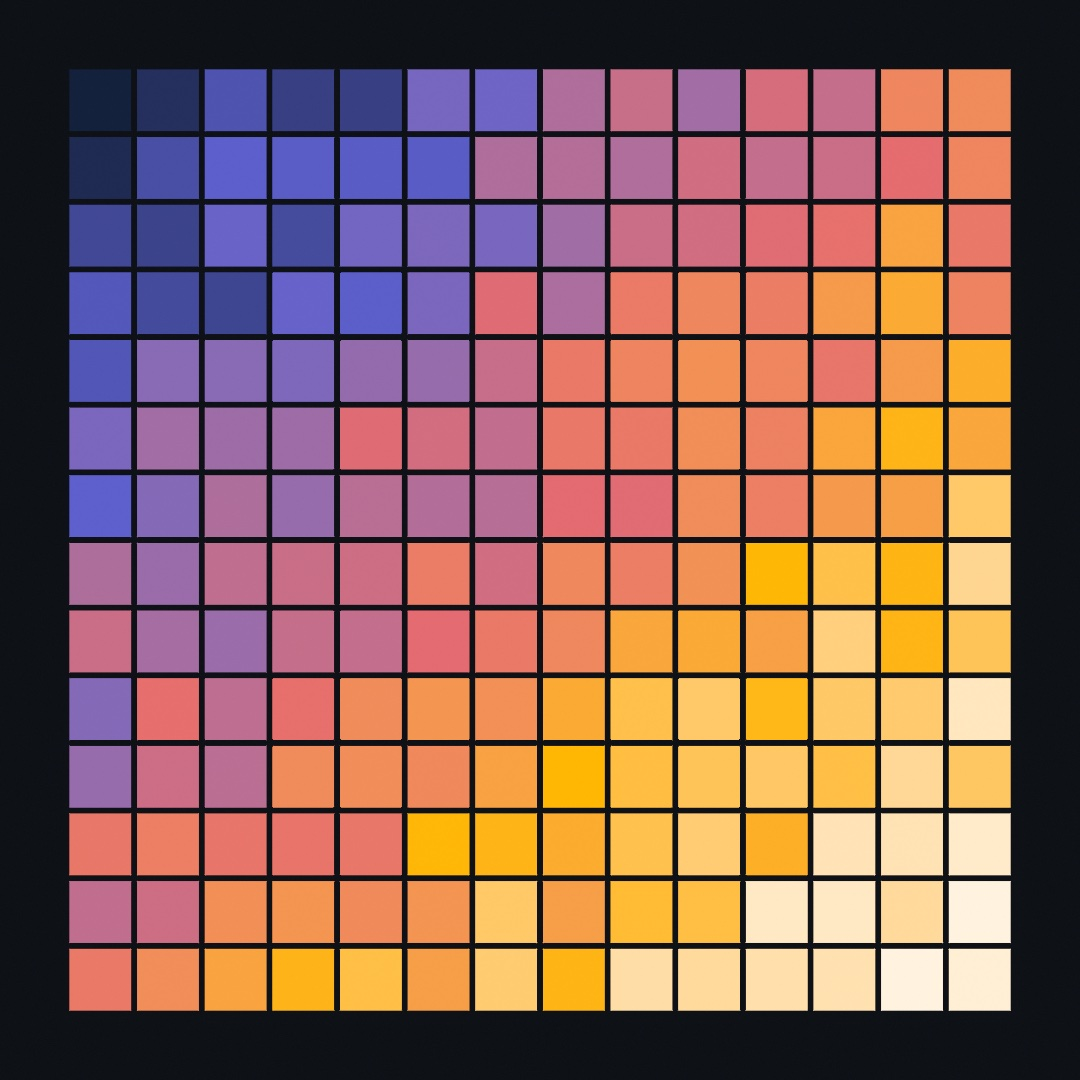
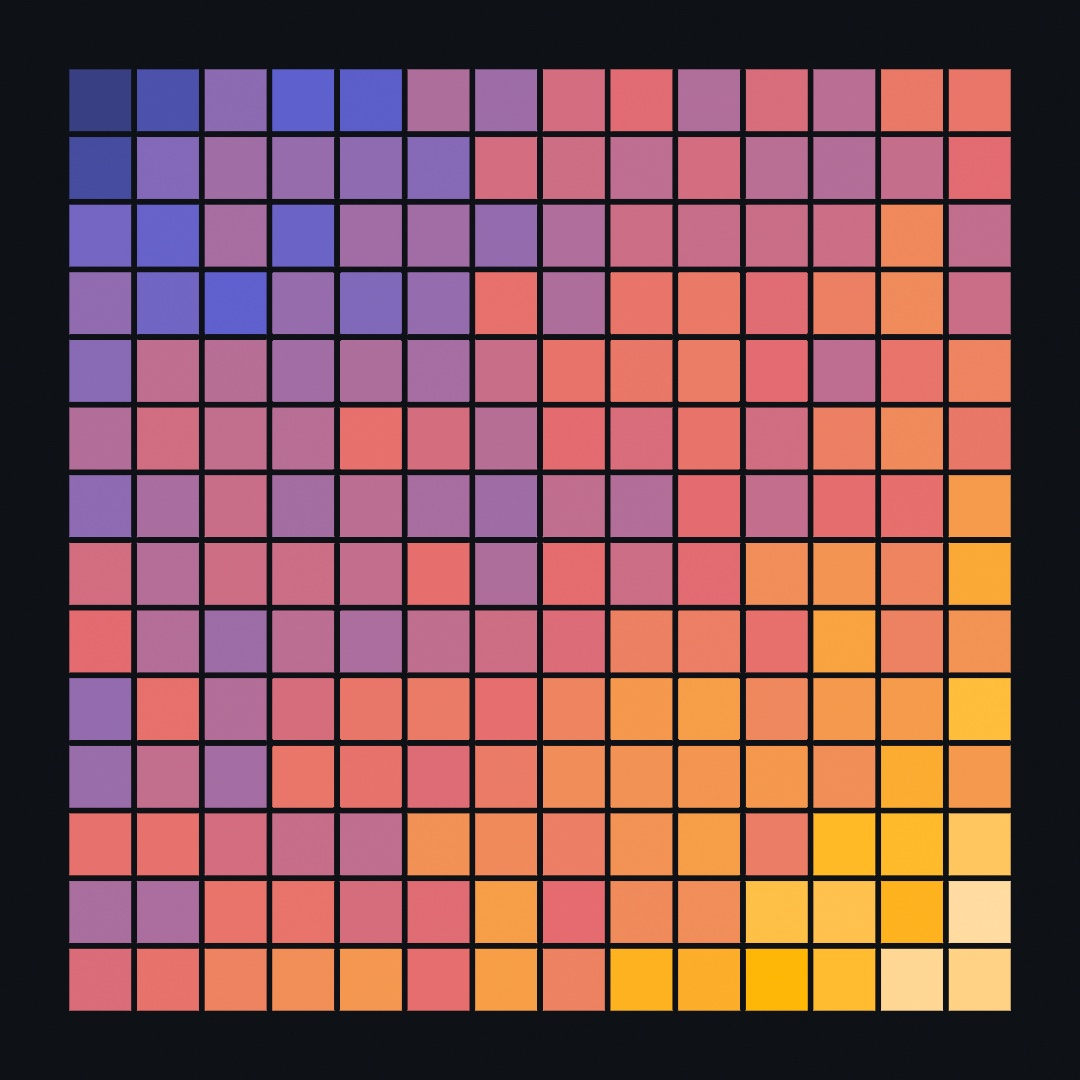
Notes 20 to 25, the payoff image that repeated the hook, and the clip address that could never change.
Item 21 was the one with reach: fifteen chapters showed the hook picture again
at the end, so the closing section repeated the opening rather than paying it
off. The rule in AUTHORING said to do that, so the rule changed too.

Item 17 was only half done. The chapter clips upload immutable for a year and
the manifest stored a bare path, so the re-recorded chapter 2 reached nobody:
the plain address served 487,887 bytes while the file on R2 was 1,010,881. The
address now carries the clip's own digest, the way the examples' rows already
did, and the script writes it that way from here on.

Also: 20 (a plainer word than "beautifully"), 22 (the figure's strips are named
rather than counted, so the text and the picture stop disagreeing about which
line is third), 23 (a sentence that restated what the reader had), 24 ("in
anger"), 25 (`sin` set in code, and neither chapter makes a promise).

Claude-Session: https://claude.ai/code/session_01WZTi811WKMj5iwAjvm8CMM

diff --git a/Guide/Figures/02-Color/ColorField.swift b/Guide/Figures/02-Color/ColorField.swift
@@ -29,7 +29,7 @@ final class ColorField: Sketch {
                 let diagonal = Double(c + r) / Double(columns * 2 - 2)
                 let t = diagonal
                     + random(-0.5, 0.5) * jitter * 0.5
-                    + sin(time * 0.4 + diagonal * 3) * 0.05
+                    + sin(time * .tau / 5 + diagonal * 4) * 0.16
                 fill(ramp.color(at: t))
                 drawRect(x, y, cell, cell)
             }

diff --git a/Guide/03-MotionAndTime.md b/Guide/03-MotionAndTime.md
@@ -6,7 +6,7 @@
 
 <img src="Images/03-MotionAndTime/RingPulse.gif" alt="Waves of light chasing around five concentric rings of colored dots, looping seamlessly" width="480">
 
-[Chapter 1](01-HelloOllin.md) handed you `sin` as a recipe and promised an explanation later, and this is later. By the end of this chapter you'll know where that wave comes from. You'll know how to make motion run at the same speed on every display. And you'll bend plain constant-rate movement into motion with character, the kind that eases, snaps, springs, and bounces. It all comes together in the sketch above, a loop that ends exactly where it begins. You'll export it as the first file in this guide you can share with someone.
+[Chapter 1](01-HelloOllin.md) handed you `sin` as a recipe and left the explanation for here. By the end of this chapter you'll know where that wave comes from. You'll know how to make motion run at the same speed on every display. And you'll bend plain constant-rate movement into motion with character, the kind that eases, snaps, springs, and bounces. It all comes together in the sketch above, a loop that ends exactly where it begins. You'll export it as the first file in this guide you can share with someone.
 
 ## The clock
 
@@ -23,12 +23,10 @@ Every sketch carries a clock, and you've already used it: `time` is the seconds 
   <img src="Images/03-MotionAndTime/DeltaTime.jpg" alt="Three dotted strips comparing one second of motion: a fixed per-frame step at 60 fps, the same step at 120 fps reaching twice as far, and a deltaTime-scaled step landing back in line" width="680">
 </picture>
 
-There are two reliable ways to move, and this guide uses both:
+The first two strips are that bare step, on a slow display and a fast one, and they are what to avoid. A step written per frame silently bakes your display's refresh rate into the artwork. The third strip is the fix, and there are two ways to reach it:
 
 - **Derive positions from `time`.** `width / 2 + time * 120` is at the same place after one second on any display. It says where to *be*, not how far to *step*. Most of what you've written so far works this way, and it's the default habit to build.
-- **Scale steps by `deltaTime`.** Some values have to accumulate, like a particle that remembers where it was, which is most of Part II. Write the speed per second and multiply, as in `x += 120 * deltaTime`. Now a fast display takes more, smaller steps and lands in the same place.
-
-What you want to avoid is the third way, a bare per-frame step, which silently bakes your display's refresh rate into the artwork.
+- **Scale steps by `deltaTime`.** Some values have to accumulate, like a particle that remembers where it was, which is most of Part II. Write the speed per second and multiply, as in `x += 120 * deltaTime`. That is the third strip: a fast display takes more, smaller steps and lands in the same place.
 
 ## When a frame takes too long
 
@@ -44,13 +42,13 @@ Here is a sketch drawing more and more circles, reading its own clock as it goes
 
 Read across and you can see which of the three properties to trust. `frameRate` falls, because that is what it measures. `deltaTime` grows to match, because it is the real gap between this frame and the last. And `time` keeps counting real seconds throughout, because it is a clock rather than a frame counter.
 
-That is the whole reason for the two habits above. Motion derived from `time`, or stepped by `deltaTime`, keeps its speed as the rate falls. It gets choppier, and it does not get slower. A bare `x += 3` gets both.
+That is the whole reason for the two habits above. Motion derived from `time`, or stepped by `deltaTime`, keeps its speed as the rate falls. It gets choppier, and it does not get slower.
 
-Two things are worth knowing beyond that. If the machine falls far enough behind, the window drops a refresh rather than queuing work it cannot finish, so `draw()` is not called at all that time; skipping a frame is better than a window that stops answering the mouse. And an export does not have this problem in the first place: it runs on a fixed clock, giving every frame exactly `1 / fps` however long the drawing takes, so a sketch too heavy to play smoothly still exports at full speed. The [profiler](../Docs/Tools/Profiling.md) is what tells you where the time went, and [Chapter 32](32-Installations.md) uses it in anger.
+Two things are worth knowing beyond that. If the machine falls far enough behind, the window drops a refresh rather than queuing work it cannot finish, so `draw()` is not called at all that time; skipping a frame is better than a window that stops answering the mouse. And an export does not have this problem in the first place: it runs on a fixed clock, giving every frame exactly `1 / fps` however long the drawing takes, so a sketch too heavy to play smoothly still exports at full speed. The [profiler](../Docs/Tools/Profiling.md) is what tells you where the time went, and [Chapter 32](32-Installations.md) puts it to work on a real piece.
 
-## The circle behind sin
+## The circle behind `sin`
 
-Here is where the wave comes from, and it's the promise [Chapter 1](01-HelloOllin.md) made:
+Here is where the wave comes from, which [Chapter 1](01-HelloOllin.md) left for this chapter:
 
 <picture>
   <source media="(prefers-color-scheme: dark)" srcset="Images/03-MotionAndTime/CircleToSine-dark.jpg">
@@ -96,7 +94,7 @@ for i in 0..<24 {
 
 Run that and you've built the bottom half of the diagram, live. You've also seen the move before, because [Chapter 1](01-HelloOllin.md)'s breathing ring offset each circle's swing with `+ Double(i) * 0.5`. That was phase, used before it had a name. It's the cheapest way there is to make many things feel alive together. The finished sketch at the end of this chapter leans on it heavily.
 
-## map and lerp: moving between ranges
+## `map` and `lerp`: moving between ranges
 
 That was the chapter's first act, a clock and the wave it drives. The second act shapes what they produce, and it starts with the ranges themselves. `sin` hands you `-1...1`, but that's rarely the range you actually want. You want 40 to 220 pixels of radius, or `0...1` to feed a color ramp. [Chapter 2](02-Color.md) patched this with the squeeze, `sin(...) * 0.5 + 0.5`. The proper tool is `map`, which carries a value from one range into another by keeping its *fraction along*:
 

diff --git a/Guide/02-Color.md b/Guide/02-Color.md
@@ -155,7 +155,7 @@ let dusk = Ramp([Color(hex: 0x14213D), Color(hex: 0x5E60CE),
 fill(dusk.color(at: t))
 ```
 
-Two kinds of ramp come pre-made. **`Colormap`** holds [eight scientific maps](../Docs/Drawing/Color.md#colormap) such as `.viridis` and `.magma`, built so that perceived brightness climbs evenly from one end to the other, which makes them the standard way to turn a number into color a viewer can read. **`CosinePalette`** holds seven cyclic palettes such as `.sunset` and `.neon`, all generated from one small formula, and because they loop they work beautifully when fed with `time`. Both answer to the same `color(at:)`.
+Two kinds of ramp come pre-made. **`Colormap`** holds [eight scientific maps](../Docs/Drawing/Color.md#colormap) such as `.viridis` and `.magma`, built so that perceived brightness climbs evenly from one end to the other, which makes them the standard way to turn a number into color a viewer can read. **`CosinePalette`** holds seven cyclic palettes such as `.sunset` and `.neon`, all generated from one small formula, and because they loop they work well when fed with `time`. Both answer to the same `color(at:)`.
 
 Either one can be a `@Param`, which saves a lot of editing and rerunning. A parameter is a value with a control in the inspector, so you turn it while the sketch runs instead of editing a number and saving. [Chapter 1](01-HelloOllin.md#putting-it-together-a-breathing-ring) declared four of them, and [Parameters](../Docs/Helpers/Parameters.md) is the whole family.
 
@@ -298,7 +298,7 @@ The rule underneath all of this is short. Red and green do look alike to a prota
 
 ## Putting it together: a color field
 
-The sketch is one ramp and a quilt of cells, with three ideas layered on top. Each cell samples the ramp according to its *diagonal position*, so the top-left corner is 0 and the bottom-right is 1. Seeded randomness then jitters every sample, which is what makes the field read as organic rather than mechanical. And a slow `sin` shimmer keeps the whole thing alive. Make `MySketches/ColorField.swift`:
+The sketch is one ramp and a quilt of cells, with three ideas layered on top. Each cell samples the ramp according to its *diagonal position*, so the top-left corner is 0 and the bottom-right is 1. Seeded randomness then jitters every sample, which is what makes the field read as organic rather than mechanical. And a `sin` wave rolls across the quilt, so the colors travel rather than sit. Make `MySketches/ColorField.swift`:
 
 ```swift
 import Ollin
@@ -327,7 +327,7 @@ final class ColorField: Sketch {
                 let diagonal = Double(c + r) / Double(columns * 2 - 2)
                 let t = diagonal
                     + random(-0.5, 0.5) * jitter * 0.5
-                    + sin(time * 0.4 + diagonal * 3) * 0.05
+                    + sin(time * .tau / 5 + diagonal * 4) * 0.16
                 fill(ramp.color(at: t))
                 drawRect(x, y, cell, cell)
             }
@@ -340,13 +340,11 @@ final class ColorField: Sketch {
 }
 ```
 
-<img src="Images/02-Color/ColorField.jpg" alt="A quilt of colored cells running diagonally from deep indigo through coral to warm cream, on a dark ground" width="560">
-
 Run it and walk the interesting lines:
 
 - `randomSeed(fieldSeed)` runs at the top of every frame, so all the `random(-0.5, 0.5)` calls that follow roll the same numbers each time and the quilt holds still. Now click the canvas. `mousePressed()` bumps the seed, and the next frame rolls an entirely new set of jitters, giving you the same sketch as a fresh variation, as many as you care to click through.
 - Two loops, one inside the other, visit every column and row, and `diagonal` turns each cell's position into the `0...1` the ramp wants.
-- The `t` line carries the whole look: position, plus seeded jitter scaled by the parameter, plus a slow shimmer. Comment out one term at a time to see what each contributes. With jitter at zero you get a clean mechanical gradient, which is a good look in its own right.
+- The `t` line carries the whole look: position, plus seeded jitter scaled by the parameter, plus the rolling wave. Comment out one term at a time to see what each contributes. With jitter at zero you get a clean mechanical gradient, which is a good look in its own right.
 - The parameters do a lot of work here. `Columns` changes the sketch's whole character, chunky at 5 and woven at 28, and `Jitter` takes it from formal to painterly.
 
 > **Swift note.** `var fieldSeed = 7` is a *property*, declared on the class rather than inside `draw()`, and that's what lets it survive from one frame to the next. A `let` or `var` written inside `draw()` is born and dies with that frame. `mousePressed()` is another function Ollin calls for you, once per click, alongside `setup()` and `draw()`. And a loop inside a loop does what it sounds like: for every column, visit every row.

diff --git a/Guide/AUTHORING.md b/Guide/AUTHORING.md
@@ -64,7 +64,7 @@ A chapter is one markdown file, `NN-PascalCase.md`, and reads like this:
 
 1. **The hook.** An image of the finished piece and two or three sentences on where the chapter is going. No throat-clearing.
 2. **Steps.** Small numbered or titled sections, each introducing one idea, each with visible output. Code appears as a full small sketch first, then deltas. Swift-language notes appear as short callout blocks (`> **Swift note.** ...`) at the exact moment the reader first needs them, and only for what the step needs.
-3. **Putting it together.** The finished sketch, built from the chapter's steps, with its full listing (it lives in `Figures/` like everything else) and a rendered image. End by inviting two or three specific variations to try.
+3. **Putting it together.** The finished sketch, built from the chapter's steps, with its full listing (it lives in `Figures/` like everything else). The rendered image is the one the chapter opened on, so it is not shown again here: the same picture twice on one page teaches nothing the second time, and on the site the opening one is the sketch playing. End by inviting two or three specific variations to try.
 4. **Where this comes from.** A short paragraph crediting the technique's originators and canonical sources, consistent with `ATTRIBUTION.md`. This is a feature of the guide: readers learn the field's history and where to read more.
 5. **Go deeper.** Links into `Docs/` pages (this is also how the coverage audit works) and related `Examples/`.
 

diff --git a/Guide/30-Seeing.md b/Guide/30-Seeing.md
@@ -526,8 +526,6 @@ final class MotionBrush: Sketch {
 }
 ```
 
-<img src="Images/30-Seeing/MotionBrush.jpg" alt="The finished motion painting: thousands of colored strokes tracing where the dancer's arms and legs swept over sixteen seconds, each color a direction, faint where the motion was long ago" width="560">
-
 The committed figure swaps the camera block for the film, and the painting code is identical. `StageFilm.step()` stands where `flow.field` stands, decoding the next frame and measuring it against the one before, with nobody to mirror. That relative scale matters more than it looks: a hand waved at a webcam crosses tens of pixels between frames and a dancer filmed across the room crosses a few, so a brush tuned to one paints nothing for the other. [Chapter 16](16-LayersAndEffects.md)'s accumulation, `noClear` plus the faint veil, is what turns instants of motion into a painting with a memory.
 
 Then make it yours:

diff --git a/Guide/16-LayersAndEffects.md b/Guide/16-LayersAndEffects.md
@@ -841,8 +841,6 @@ final class Comets: Sketch {
 }
 ```
 
-<img src="Images/16-LayersAndEffects/Comets.jpg" alt="The finished sketch: comet swarms of glowing dots in orange, pink, and green, each flock dragging soft curved tails of light through the dark" width="560">
-
 Read it as three acts. The flock is untouched [Chapter 12](12-FlocksAndSwarms.md), still steering by the same three rules. The middle act is the feedback loop from the last section. The boids are drawn inside it, so their light lands *in* the layer that remembers. And the final act is one line of compositing. The trail layer comes back bloomed, added as light, and rolled off by the tone map set back in `setup()`. Every hue still means a heading, and now it also smears into a wake that shows where the heading has been.
 
 Then make it yours:

diff --git a/Guide/26-SculptingWithFields.md b/Guide/26-SculptingWithFields.md
@@ -521,8 +521,6 @@ final class Molten: Sketch {
 }
 ```
 
-<img src="Images/26-SculptingWithFields/Molten.jpg" alt="The finished molten piece: a glossy mint body of fused lobes with a drooping drip, its reflection-lit surface reading as glass, over a dark floor with a soft shadow" width="560">
-
 The whole sculpture is four primitive lobes, three smooth unions, one twist, and a glassy finish. The breathing comes from `signedNoise` easing the first melt radius in and out. Notice the mesh floor and the traced field sharing the frame. The field drops its shadow onto the plane, and each would hide the other if they overlapped. That's the everyday reality of this chapter. Fields aren't a separate world, and they're one more kind of thing your scene draws.
 
 Then make it yours:

diff --git a/Guide/32-Installations.md b/Guide/32-Installations.md
@@ -617,8 +617,6 @@ The second part is the drawing, and it holds nothing between frames. Every bar's
 }
 ```
 
-<img src="Images/32-Installations/WallPiece.jpg" alt="The finished wall piece at dusk: a slow field of bars from deep plum through red to orange, with the plain band along the bottom that the lamps read" width="680">
-
 Read the declaration back and it is a list of the things this chapter is about. The screen saver never comes on. A power cut costs at most a minute. A stall fixes itself in the small hours with nobody there. The sketch is dark outside opening hours, and it is a different color at dawn than at dusk. And the strip of lamps under it is lit by the same drawing, because an `LEDMap` reads the canvas rather than being told about it.
 
 Then make it yours:

diff --git a/Guide/28-SoundAndControl.md b/Guide/28-SoundAndControl.md
@@ -555,8 +555,6 @@ final class Resonator: Sketch {
 }
 ```
 
-<img src="Images/28-SoundAndControl/Resonator.jpg" alt="The finished Resonator: an amber orb below center wearing a tilted crown of spectrum spokes, sparks scattered around it against the dark" width="560">
-
 Each spoke is a `drawOrientedBox`, which fills a thick bar between two points at whatever angle they happen to lie. A band level turns straight into a spike pointing out from the center. The additive blend and the ACES tone map from [Chapter 16](16-LayersAndEffects.md) are what make the glow feel like light instead of paint. The mirrored bands are an old trick that keeps a spectrum symmetric and calm. Watch it run and the crown breathes with the arpeggio while the core keeps time.
 
 Then make it yours:

diff --git a/Guide/31-SharingAndPerforming.md b/Guide/31-SharingAndPerforming.md
@@ -965,8 +965,6 @@ final class Finale: Sketch {
 }
 ```
 
-<img src="Images/31-SharingAndPerforming/Finale.jpg" alt="The finale at one moment: nested posterized contour bands from electric blue and green edges to a lime core, slowly rotating and cycling hue when live" width="560">
-
 Then close the loop this chapter opened. Save the buffer with ⌘S. Render a shareable file with `swift run OllinLive MySketches/Finale.swift --export-video finale.mp4 --seconds 12`, or press ⌘⇧R before the first evaluation and keep the performed version instead, evaluations and all. And if a projector or a call is nearby, run `publishSyphon()` or `publishVirtualCamera()` while you perform. The same small sketch just walked out of every door this chapter opened.
 
 Then make it yours:

diff --git a/Guide/17-YourFirstShader.md b/Guide/17-YourFirstShader.md
@@ -366,8 +366,6 @@ final class Aurora: Sketch {
 }
 ```
 
-<img src="Images/17-YourFirstShader/Aurora.jpg" alt="The finished aurora: swaying teal-green curtains over a starred violet night and a black ridge" width="560">
-
 Read the shader top to bottom and count the old friends: `fbm` ([Chapter 5](05-Noise.md)) bends and builds the curtains, `smoothstep` ([Chapter 3](03-MotionAndTime.md)) shapes every transition, from the curtain edges to the height fade to the two-pixel horizon line, `hash12` ([Chapter 4](04-Randomness.md)'s determinism, per pixel) places the stars, `palette` designs the color, and `mix` (lerp by another name) blends every layer of the picture. Nothing new happened here except *where the code runs*.
 
 Then make it yours:

diff --git a/Guide/29-MakingSound.md b/Guide/29-MakingSound.md
@@ -785,8 +785,6 @@ The second part is the drawing, and it knows nothing about sound. Every note the
 }
 ```
 
-<img src="Images/29-MakingSound/MusicBox.jpg" alt="The finished music box: gold bars low for the plucked string, blue through the middle for the bell, long pink ones across the top for breath, over faint bar lines with a playhead at the right" width="560">
-
 Read the picture back against the code and every part of the chapter is in it. The gold marks land on three of the sixteen steps, as far apart as sixteen lets them be. The blue ones walk up and back down because an arpeggio is read at the step rather than restarted. The pink ones hold for two and a half beats each, which is why they overlap.
 
 Then make it yours:
